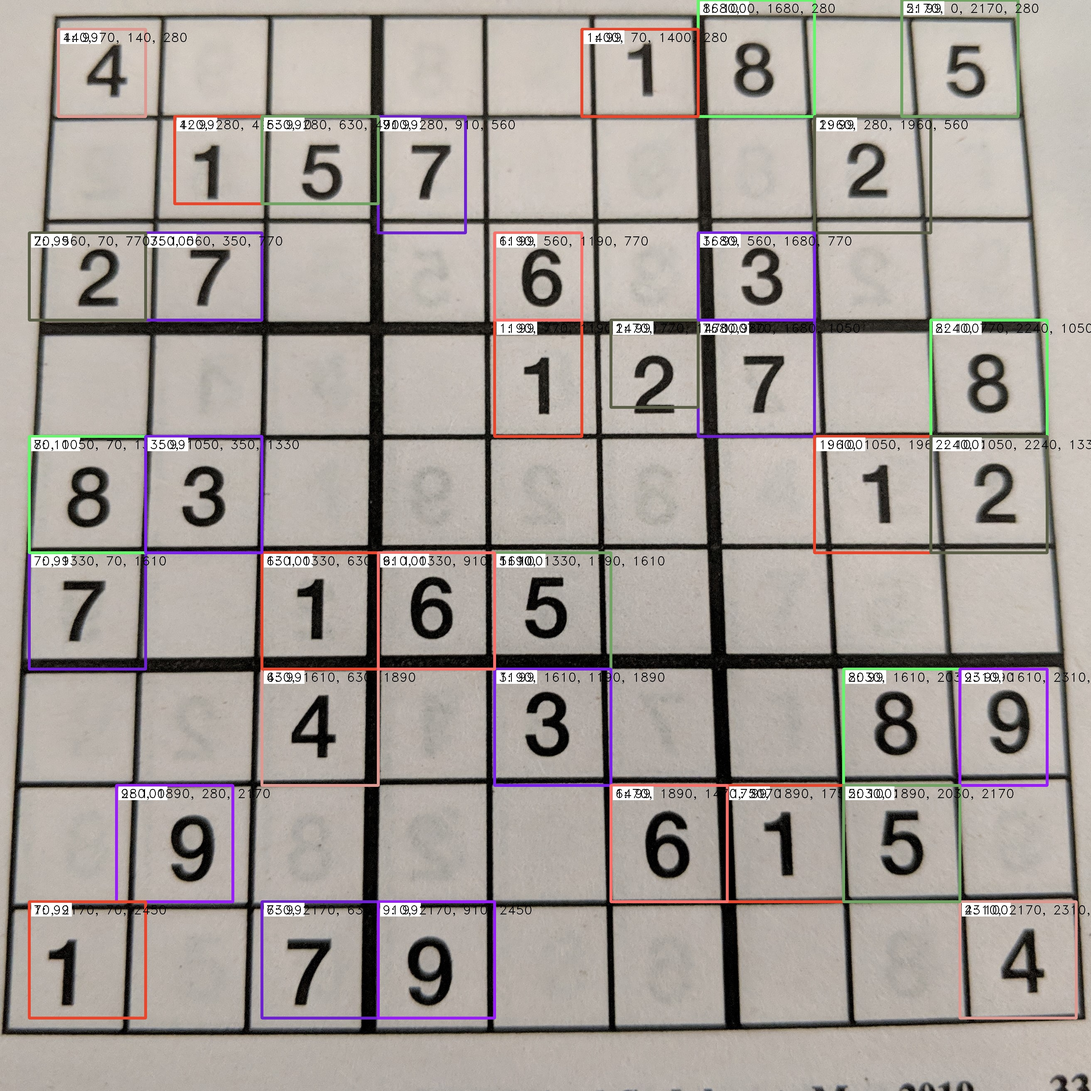
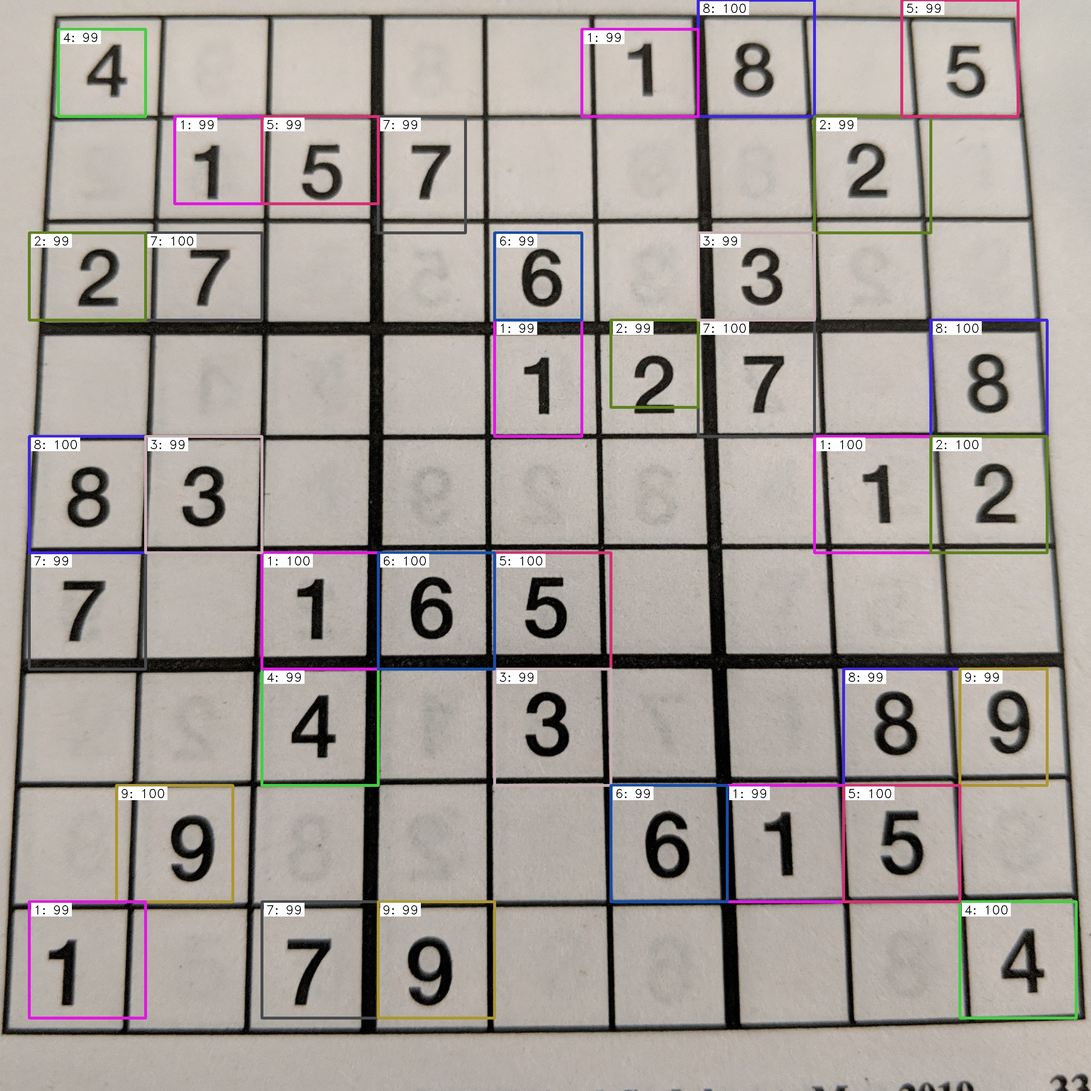
fixed images

diff --git a/network/test_frcnn.py b/network/test_frcnn.py
@@ -201,8 +201,6 @@ def calculations(blob):
 			cv2.rectangle(img, (textOrg[0] - 5, textOrg[1]+baseLine - 5), (textOrg[0]+retval[0] + 5, textOrg[1]-retval[1] - 5), (0, 0, 0), 1)
 			cv2.rectangle(img, (textOrg[0] - 5,textOrg[1]+baseLine - 5), (textOrg[0]+retval[0] + 5, textOrg[1]-retval[1] - 5), (255, 255, 255), -1)
 			cv2.putText(img, textLabel, textOrg, cv2.FONT_HERSHEY_DUPLEX, 1, (0, 0, 0), 1)
-			cv2.putText(img, f'{real_x1}, {real_y1}, {real_x1}, {real_y2}' , textOrg, cv2.FONT_HERSHEY_DUPLEX, 1, (0, 0, 0), 1)
-
 
 	cv2.imwrite(os.path.join(os.getcwd(), 'output', 'boxes-' + blob),img)
 	return to_ret
